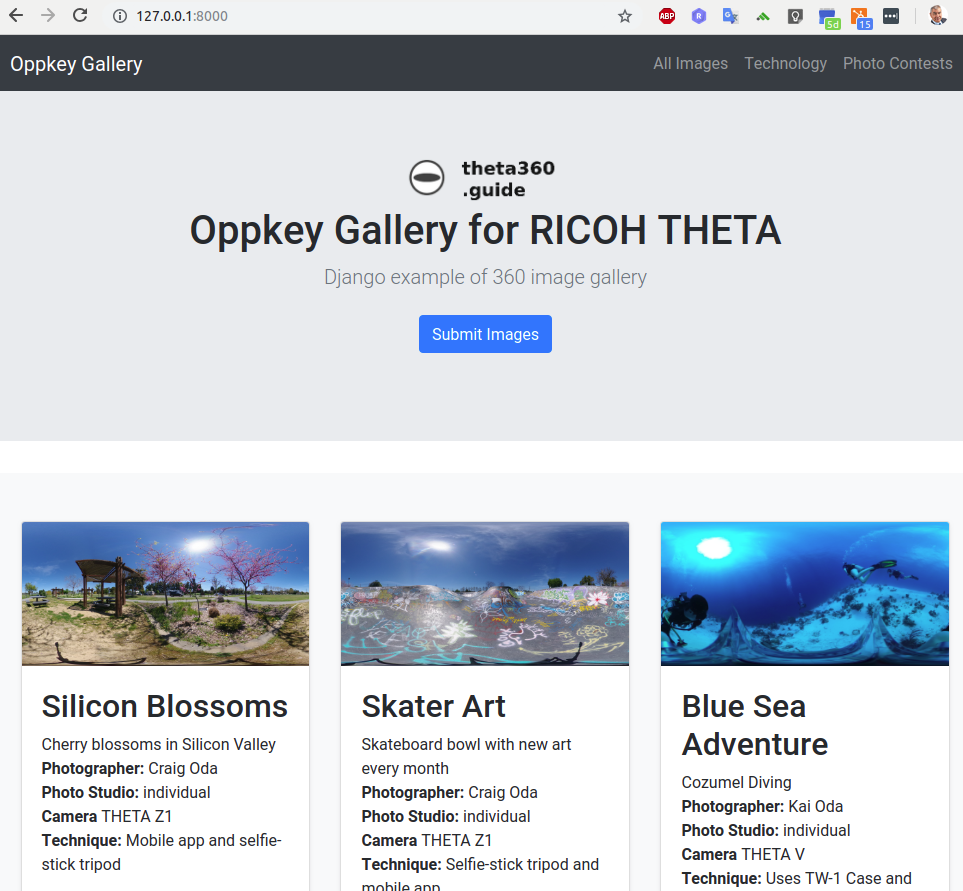
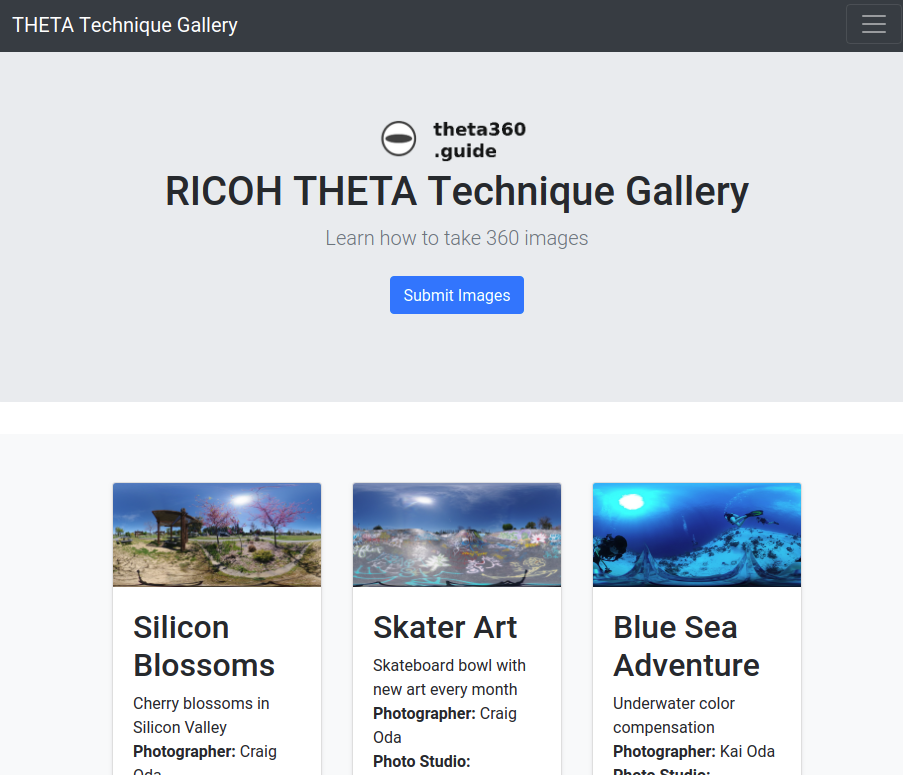
updated screenshots and project title

diff --git a/README.md b/README.md
@@ -1,4 +1,4 @@
-# Oppkey Gallery for RICOH THETA
+# RICOH THETA Technique Gallery
 
 Test bed for 360 image web site technologies.
 
@@ -37,4 +37,4 @@ Example
 
 ![main](images/gallery-main.png)
 
-![main](images/oppkey-gallery-2.png)
+![main](images/mobile-sample.jpg)
